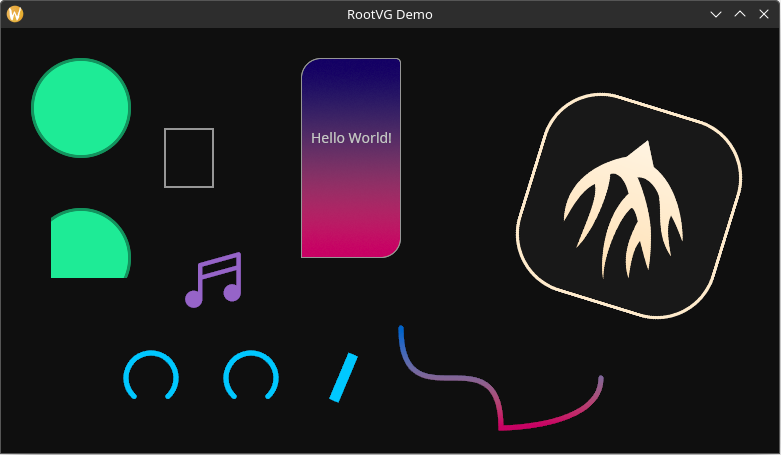
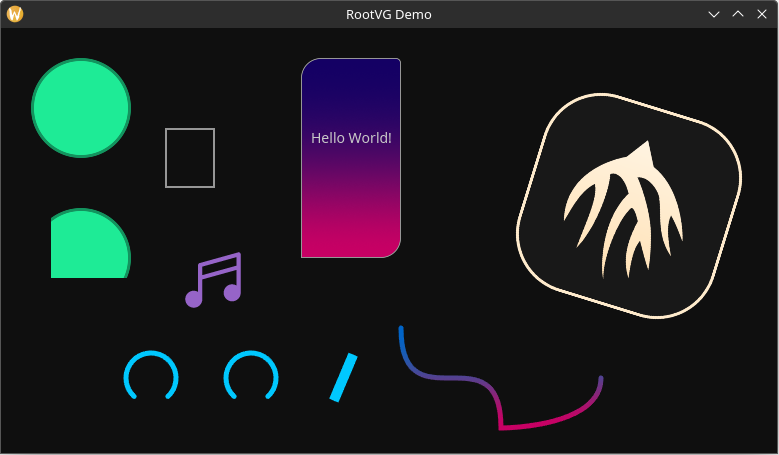
Introduce `web-colors` feature flag to enable "sRGB linear" blending

diff --git a/crates/rootvg-core/src/color.rs b/crates/rootvg-core/src/color.rs
@@ -74,13 +74,11 @@ pub const fn hex(color: u32) -> RGBA8 {
     )
 }
 
-/// A color packed as 4 floats representing RGBA channels.
-///
-/// Note that the color is assumed to be in SRGB format.
+/// A color packed as 4 floats in the `sRGB` color space.
 #[repr(C)]
 #[derive(Default, Debug, Clone, Copy, PartialEq, bytemuck::Zeroable, bytemuck::Pod)]
 #[cfg_attr(feature = "serde", derive(serde::Serialize, serde::Deserialize))]
-pub struct PackedSrgb(pub [f32; 4]);
+pub struct PackedSrgb([f32; 4]);
 
 impl PackedSrgb {
     /// The color black with full opacity
@@ -90,34 +88,43 @@ impl PackedSrgb {
     /// A color with no opacity
     pub const TRANSPARENT: Self = Self([0.0, 0.0, 0.0, 0.0]);
 
-    /// Creates a [`Color`] from its SRGBA components.
-    pub const fn new(r: f32, g: f32, b: f32, a: f32) -> Self {
-        Self([r, g, b, a])
+    /// Creates a [`Color`] from 8 bit RGBA components.
+    pub fn from_rgb8(r: u8, g: u8, b: u8) -> Self {
+        Self([
+            srgb8_to_linear(r),
+            srgb8_to_linear(g),
+            srgb8_to_linear(b),
+            1.0,
+        ])
     }
 
-    /// Creates a [`Color`] from 8 bit SRGBA components.
-    pub const fn from_srgb8(r: u8, g: u8, b: u8) -> Self {
-        let r = FROM_SRGB8_TABLE[r as usize];
-        let g = FROM_SRGB8_TABLE[g as usize];
-        let b = FROM_SRGB8_TABLE[b as usize];
-        Self([r, g, b, 1.0])
+    /// Creates a [`Color`] from 8 bit RGBA components.
+    pub fn from_rgba8(r: u8, g: u8, b: u8, a: u8) -> Self {
+        Self([
+            srgb8_to_linear(r),
+            srgb8_to_linear(g),
+            srgb8_to_linear(b),
+            f32::from(a) * (1.0 / 255.0),
+        ])
     }
 
-    /// Creates a [`Color`] from 8 bit SRGBA components.
-    pub fn from_srgba8(r: u8, g: u8, b: u8, a: u8) -> Self {
-        RGBA8 { r, g, b, a }.into()
-    }
+    /// Creates a [`Color`] from its sRGBA components.
+    pub fn from_srgba(r: f32, g: f32, b: f32, a: f32) -> Self {
+        debug_assert!(r >= 0.0 && r <= 1.0);
+        debug_assert!(g >= 0.0 && g <= 1.0);
+        debug_assert!(b >= 0.0 && b <= 1.0);
+        debug_assert!(a >= 0.0 && a <= 1.0);
 
-    /// Creates a [`Color`] from 8 bit SRGB component and an alpha component.
-    pub const fn from_srgb8_alpha(r: u8, g: u8, b: u8, a: f32) -> Self {
-        let r = FROM_SRGB8_TABLE[r as usize];
-        let g = FROM_SRGB8_TABLE[g as usize];
-        let b = FROM_SRGB8_TABLE[b as usize];
         Self([r, g, b, a])
     }
 
     /// Creates a [`Color`] from its linear RGBA components.
     pub fn from_linear_rgba(r: f32, g: f32, b: f32, a: f32) -> Self {
+        debug_assert!(r >= 0.0 && r <= 1.0);
+        debug_assert!(g >= 0.0 && g <= 1.0);
+        debug_assert!(b >= 0.0 && b <= 1.0);
+        debug_assert!(a >= 0.0 && a <= 1.0);
+
         // As described in: https://en.wikipedia.org/wiki/SRGB
         fn gamma_component(u: f32) -> f32 {
             if u < 0.0031308 {
@@ -135,16 +142,16 @@ impl PackedSrgb {
         ])
     }
 
-    pub fn r(&self) -> f32 {
+    pub const fn r(&self) -> f32 {
         self.0[0]
     }
-    pub fn g(&self) -> f32 {
+    pub const fn g(&self) -> f32 {
         self.0[1]
     }
-    pub fn b(&self) -> f32 {
+    pub const fn b(&self) -> f32 {
         self.0[2]
     }
-    pub fn a(&self) -> f32 {
+    pub const fn a(&self) -> f32 {
         self.0[3]
     }
 
@@ -160,84 +167,99 @@ impl PackedSrgb {
     pub fn a_mut(&mut self) -> &mut f32 {
         &mut self.0[3]
     }
+
+    pub const fn raw(&self) -> [f32; 4] {
+        self.0
+    }
 }
 
 impl From<RGB8> for PackedSrgb {
     fn from(color: RGB8) -> Self {
-        let r = FROM_SRGB8_TABLE[color.r as usize];
-        let g = FROM_SRGB8_TABLE[color.g as usize];
-        let b = FROM_SRGB8_TABLE[color.b as usize];
-        Self([r, g, b, 1.0])
+        Self::from_rgb8(color.r, color.g, color.b)
     }
 }
 
 impl From<RGBA8> for PackedSrgb {
     fn from(color: RGBA8) -> Self {
-        let r = FROM_SRGB8_TABLE[color.r as usize];
-        let g = FROM_SRGB8_TABLE[color.g as usize];
-        let b = FROM_SRGB8_TABLE[color.b as usize];
-        let a = f32::from(color.a) * (1.0 / 255.0);
-        Self([r, g, b, a])
+        Self::from_rgba8(color.r, color.g, color.b, color.a)
     }
 }
 
-impl From<[f32; 3]> for PackedSrgb {
-    fn from(color: [f32; 3]) -> Self {
-        Self([color[0], color[1], color[2], 1.0])
+impl From<PackedSrgb> for [f32; 4] {
+    fn from(color: PackedSrgb) -> Self {
+        color.raw()
     }
 }
 
-impl From<[f32; 4]> for PackedSrgb {
-    fn from(color: [f32; 4]) -> Self {
-        Self(color)
+pub use srgb8_to_linear::{srgb8_to_linear, GAMMA_CORRECTION, SRGBA8_TEXTURE_FORMAT};
+
+#[cfg(feature = "web-colors")]
+mod srgb8_to_linear {
+    /// A flag that indicates whether the renderer should perform gamma correction.
+    pub const GAMMA_CORRECTION: bool = false;
+
+    /// The texture format shaders should use for srgba textures.
+    pub const SRGBA8_TEXTURE_FORMAT: wgpu::TextureFormat = wgpu::TextureFormat::Rgba8Unorm;
+
+    /// Convert a component 8-bit sRGB to linear f32.
+    #[inline]
+    pub fn srgb8_to_linear(c: u8) -> f32 {
+        f32::from(c) * (1.0 / 255.0)
     }
 }
 
-// -- The following code was copied from https://github.com/thomcc/fast-srgb8/blob/3e430039d5f252e896a174ebc7d8eb3aa1e12d95/src/lib.rs ---------------
-// fast-srgb8 licenses:
-//     * MIT: https://github.com/thomcc/fast-srgb8/blob/3e430039d5f252e896a174ebc7d8eb3aa1e12d95/LICENSE-MIT
-//     * Apache License 2.0: https://github.com/thomcc/fast-srgb8/blob/3e430039d5f252e896a174ebc7d8eb3aa1e12d95/LICENSE-APACHE
-//     * CC0: https://github.com/thomcc/fast-srgb8/blob/3e430039d5f252e896a174ebc7d8eb3aa1e12d95/LICENSE-CC0
+#[cfg(not(feature = "web-colors"))]
+mod srgb8_to_linear {
+    /// A flag that indicates whether the renderer should perform gamma correction.
+    pub const GAMMA_CORRECTION: bool = true;
 
-/// Convert from 8-bit sRGB to linear f32.
-pub const fn srgb8_to_f32(c: u8) -> f32 {
-    FROM_SRGB8_TABLE[c as usize]
+    /// The texture format shaders should use for srgba textures.
+    pub const SRGBA8_TEXTURE_FORMAT: wgpu::TextureFormat = wgpu::TextureFormat::Rgba8UnormSrgb;
+
+    // -- The following code was copied from https://github.com/thomcc/fast-srgb8/blob/3e430039d5f252e896a174ebc7d8eb3aa1e12d95/src/lib.rs ---------------
+    // fast-srgb8 licenses:
+    //     * MIT: https://github.com/thomcc/fast-srgb8/blob/3e430039d5f252e896a174ebc7d8eb3aa1e12d95/LICENSE-MIT
+    //     * Apache License 2.0: https://github.com/thomcc/fast-srgb8/blob/3e430039d5f252e896a174ebc7d8eb3aa1e12d95/LICENSE-APACHE
+    //     * CC0: https://github.com/thomcc/fast-srgb8/blob/3e430039d5f252e896a174ebc7d8eb3aa1e12d95/LICENSE-CC0
+
+    /// Convert a component of 8-bit sRGB to linear f32.
+    pub const fn srgb8_to_linear(c: u8) -> f32 {
+        SRGB8_TO_LINEAR_LUT[c as usize]
+    }
+
+    #[rustfmt::skip]
+    const SRGB8_TO_LINEAR_LUT: [f32; 256] = [
+        0.0, 0.000303527, 0.000607054, 0.00091058103, 0.001214108, 0.001517635, 0.0018211621, 0.002124689,
+        0.002428216, 0.002731743, 0.00303527, 0.0033465356, 0.003676507, 0.004024717, 0.004391442,
+        0.0047769533, 0.005181517, 0.0056053917, 0.0060488326, 0.006512091, 0.00699541, 0.0074990317,
+        0.008023192, 0.008568125, 0.009134057, 0.009721218, 0.010329823, 0.010960094, 0.011612245,
+        0.012286487, 0.012983031, 0.013702081, 0.014443844, 0.015208514, 0.015996292, 0.016807375,
+        0.017641952, 0.018500218, 0.019382361, 0.020288562, 0.02121901, 0.022173883, 0.023153365,
+        0.02415763, 0.025186857, 0.026241222, 0.027320892, 0.028426038, 0.029556843, 0.03071345, 0.03189604,
+        0.033104774, 0.03433981, 0.035601325, 0.036889452, 0.038204376, 0.039546248, 0.04091521, 0.042311423,
+        0.043735042, 0.045186214, 0.046665095, 0.048171833, 0.049706575, 0.051269468, 0.052860655, 0.05448028,
+        0.056128494, 0.057805434, 0.05951124, 0.06124607, 0.06301003, 0.06480328, 0.06662595, 0.06847818,
+        0.07036011, 0.07227186, 0.07421358, 0.07618539, 0.07818743, 0.08021983, 0.082282715, 0.084376216,
+        0.086500466, 0.088655606, 0.09084173, 0.09305898, 0.095307484, 0.09758736, 0.09989874, 0.10224175,
+        0.10461649, 0.10702311, 0.10946172, 0.111932434, 0.11443538, 0.116970696, 0.11953845, 0.12213881,
+        0.12477186, 0.12743773, 0.13013652, 0.13286836, 0.13563336, 0.13843165, 0.14126332, 0.1441285,
+        0.1470273, 0.14995982, 0.15292618, 0.1559265, 0.15896086, 0.16202943, 0.16513224, 0.16826946,
+        0.17144115, 0.17464745, 0.17788847, 0.1811643, 0.18447503, 0.1878208, 0.19120172, 0.19461787,
+        0.19806935, 0.2015563, 0.20507877, 0.2086369, 0.21223079, 0.21586053, 0.21952623, 0.22322798,
+        0.22696589, 0.23074007, 0.23455065, 0.23839766, 0.2422812, 0.2462014, 0.25015837, 0.25415218,
+        0.2581829, 0.26225072, 0.26635566, 0.27049786, 0.27467737, 0.27889434, 0.2831488, 0.2874409,
+        0.2917707, 0.29613832, 0.30054384, 0.30498737, 0.30946895, 0.31398875, 0.31854683, 0.32314324,
+        0.32777813, 0.33245158, 0.33716366, 0.34191445, 0.3467041, 0.3515327, 0.35640025, 0.36130688,
+        0.3662527, 0.37123778, 0.37626222, 0.3813261, 0.38642952, 0.39157256, 0.3967553, 0.40197787,
+        0.4072403, 0.4125427, 0.41788515, 0.42326775, 0.42869055, 0.4341537, 0.43965724, 0.44520125,
+        0.45078585, 0.45641106, 0.46207705, 0.46778384, 0.47353154, 0.47932024, 0.48514998, 0.4910209,
+        0.49693304, 0.5028866, 0.50888145, 0.5149178, 0.5209957, 0.52711535, 0.5332766, 0.5394797,
+        0.5457247, 0.5520116, 0.5583406, 0.5647117, 0.57112503, 0.57758063, 0.5840786, 0.590619, 0.597202,
+        0.60382754, 0.61049575, 0.61720675, 0.62396055, 0.63075733, 0.637597, 0.6444799, 0.6514058,
+        0.65837497, 0.66538745, 0.67244333, 0.6795426, 0.68668544, 0.69387203, 0.70110214, 0.70837605,
+        0.7156938, 0.72305536, 0.730461, 0.7379107, 0.7454045, 0.75294244, 0.76052475, 0.7681514, 0.77582246,
+        0.78353804, 0.79129815, 0.79910296, 0.8069525, 0.8148468, 0.822786, 0.8307701, 0.83879924, 0.84687346,
+        0.8549928, 0.8631574, 0.87136734, 0.8796226, 0.8879232, 0.89626956, 0.90466136, 0.913099, 0.92158204,
+        0.93011117, 0.9386859, 0.9473069, 0.9559735, 0.9646866, 0.9734455, 0.98225087, 0.9911022, 1.0
+    ];
 }
-
-#[rustfmt::skip]
-const FROM_SRGB8_TABLE: [f32; 256] = [
-    0.0, 0.000303527, 0.000607054, 0.00091058103, 0.001214108, 0.001517635, 0.0018211621, 0.002124689,
-    0.002428216, 0.002731743, 0.00303527, 0.0033465356, 0.003676507, 0.004024717, 0.004391442,
-    0.0047769533, 0.005181517, 0.0056053917, 0.0060488326, 0.006512091, 0.00699541, 0.0074990317,
-    0.008023192, 0.008568125, 0.009134057, 0.009721218, 0.010329823, 0.010960094, 0.011612245,
-    0.012286487, 0.012983031, 0.013702081, 0.014443844, 0.015208514, 0.015996292, 0.016807375,
-    0.017641952, 0.018500218, 0.019382361, 0.020288562, 0.02121901, 0.022173883, 0.023153365,
-    0.02415763, 0.025186857, 0.026241222, 0.027320892, 0.028426038, 0.029556843, 0.03071345, 0.03189604,
-    0.033104774, 0.03433981, 0.035601325, 0.036889452, 0.038204376, 0.039546248, 0.04091521, 0.042311423,
-    0.043735042, 0.045186214, 0.046665095, 0.048171833, 0.049706575, 0.051269468, 0.052860655, 0.05448028,
-    0.056128494, 0.057805434, 0.05951124, 0.06124607, 0.06301003, 0.06480328, 0.06662595, 0.06847818,
-    0.07036011, 0.07227186, 0.07421358, 0.07618539, 0.07818743, 0.08021983, 0.082282715, 0.084376216,
-    0.086500466, 0.088655606, 0.09084173, 0.09305898, 0.095307484, 0.09758736, 0.09989874, 0.10224175,
-    0.10461649, 0.10702311, 0.10946172, 0.111932434, 0.11443538, 0.116970696, 0.11953845, 0.12213881,
-    0.12477186, 0.12743773, 0.13013652, 0.13286836, 0.13563336, 0.13843165, 0.14126332, 0.1441285,
-    0.1470273, 0.14995982, 0.15292618, 0.1559265, 0.15896086, 0.16202943, 0.16513224, 0.16826946,
-    0.17144115, 0.17464745, 0.17788847, 0.1811643, 0.18447503, 0.1878208, 0.19120172, 0.19461787,
-    0.19806935, 0.2015563, 0.20507877, 0.2086369, 0.21223079, 0.21586053, 0.21952623, 0.22322798,
-    0.22696589, 0.23074007, 0.23455065, 0.23839766, 0.2422812, 0.2462014, 0.25015837, 0.25415218,
-    0.2581829, 0.26225072, 0.26635566, 0.27049786, 0.27467737, 0.27889434, 0.2831488, 0.2874409,
-    0.2917707, 0.29613832, 0.30054384, 0.30498737, 0.30946895, 0.31398875, 0.31854683, 0.32314324,
-    0.32777813, 0.33245158, 0.33716366, 0.34191445, 0.3467041, 0.3515327, 0.35640025, 0.36130688,
-    0.3662527, 0.37123778, 0.37626222, 0.3813261, 0.38642952, 0.39157256, 0.3967553, 0.40197787,
-    0.4072403, 0.4125427, 0.41788515, 0.42326775, 0.42869055, 0.4341537, 0.43965724, 0.44520125,
-    0.45078585, 0.45641106, 0.46207705, 0.46778384, 0.47353154, 0.47932024, 0.48514998, 0.4910209,
-    0.49693304, 0.5028866, 0.50888145, 0.5149178, 0.5209957, 0.52711535, 0.5332766, 0.5394797,
-    0.5457247, 0.5520116, 0.5583406, 0.5647117, 0.57112503, 0.57758063, 0.5840786, 0.590619, 0.597202,
-    0.60382754, 0.61049575, 0.61720675, 0.62396055, 0.63075733, 0.637597, 0.6444799, 0.6514058,
-    0.65837497, 0.66538745, 0.67244333, 0.6795426, 0.68668544, 0.69387203, 0.70110214, 0.70837605,
-    0.7156938, 0.72305536, 0.730461, 0.7379107, 0.7454045, 0.75294244, 0.76052475, 0.7681514, 0.77582246,
-    0.78353804, 0.79129815, 0.79910296, 0.8069525, 0.8148468, 0.822786, 0.8307701, 0.83879924, 0.84687346,
-    0.8549928, 0.8631574, 0.87136734, 0.8796226, 0.8879232, 0.89626956, 0.90466136, 0.913099, 0.92158204,
-    0.93011117, 0.9386859, 0.9473069, 0.9559735, 0.9646866, 0.9734455, 0.98225087, 0.9911022, 1.0
-];
-
-// --------------------------------------------------------------------------------------------

diff --git a/crates/rootvg-text/src/pipeline.rs b/crates/rootvg-text/src/pipeline.rs
@@ -37,8 +37,17 @@ impl TextPipeline {
         let swash_cache = SwashCache::new();
         let cache = Cache::new(device);
         let viewport = Viewport::new(device, &cache);
-        let atlas =
-            TextAtlas::with_color_mode(device, queue, &cache, format, glyphon::ColorMode::Accurate);
+        let atlas = TextAtlas::with_color_mode(
+            device,
+            queue,
+            &cache,
+            format,
+            if rootvg_core::color::GAMMA_CORRECTION {
+                glyphon::ColorMode::Accurate
+            } else {
+                glyphon::ColorMode::Web
+            },
+        );
 
         let empty_text_buffer =
             RcTextBuffer::new("", Default::default(), None, None, false, font_system);

diff --git a/src/surface.rs b/src/surface.rs
@@ -250,10 +250,12 @@ impl<'a> DefaultSurface<'a> {
             log::trace!("available texture formats: {formats:#?}");
 
             // Gamma correction
+            #[cfg(not(feature = "web-colors"))]
             let format = formats.find(wgpu::TextureFormat::is_srgb);
 
             // No gamma correction
-            // let format = formats.find(|format| !wgpu::TextureFormat::is_srgb(format));
+            #[cfg(feature = "web-colors")]
+            let format = formats.find(|format| !wgpu::TextureFormat::is_srgb(format));
 
             let format = format.or_else(|| {
                 log::warn!("no texture format found!");

diff --git a/crates/rootvg-image/src/texture.rs b/crates/rootvg-image/src/texture.rs
@@ -159,7 +159,7 @@ impl RcTexture {
                         mip_level_count: 1,
                         sample_count: 1,
                         dimension: wgpu::TextureDimension::D2,
-                        format: wgpu::TextureFormat::Rgba8UnormSrgb,
+                        format: rootvg_core::color::SRGBA8_TEXTURE_FORMAT,
                         // TEXTURE_BINDING tells wgpu that we want to use this texture in shaders
                         // COPY_DST means that we want to copy data to this texture
                         usage: wgpu::TextureUsages::TEXTURE_BINDING | wgpu::TextureUsages::COPY_DST,

diff --git a/crates/rootvg-tessellation/src/stroke.rs b/crates/rootvg-tessellation/src/stroke.rs
@@ -52,7 +52,7 @@ impl<'a> Stroke<'a> {
 impl<'a> Default for Stroke<'a> {
     fn default() -> Self {
         Stroke {
-            style: FillStyle::Solid(PackedSrgb([0.0, 0.0, 0.0, 1.0])),
+            style: FillStyle::Solid(PackedSrgb::BLACK),
             width: 1.0,
             line_cap: LineCap::default(),
             line_join: LineJoin::default(),

diff --git a/crates/rootvg-tessellation/src/fill.rs b/crates/rootvg-tessellation/src/fill.rs
@@ -30,7 +30,7 @@ pub struct Fill {
 impl Default for Fill {
     fn default() -> Self {
         Self {
-            style: FillStyle::Solid(PackedSrgb([0.0, 0.0, 0.0, 1.0])),
+            style: FillStyle::Solid(PackedSrgb::BLACK),
             rule: FillRule::NonZero,
         }
     }
